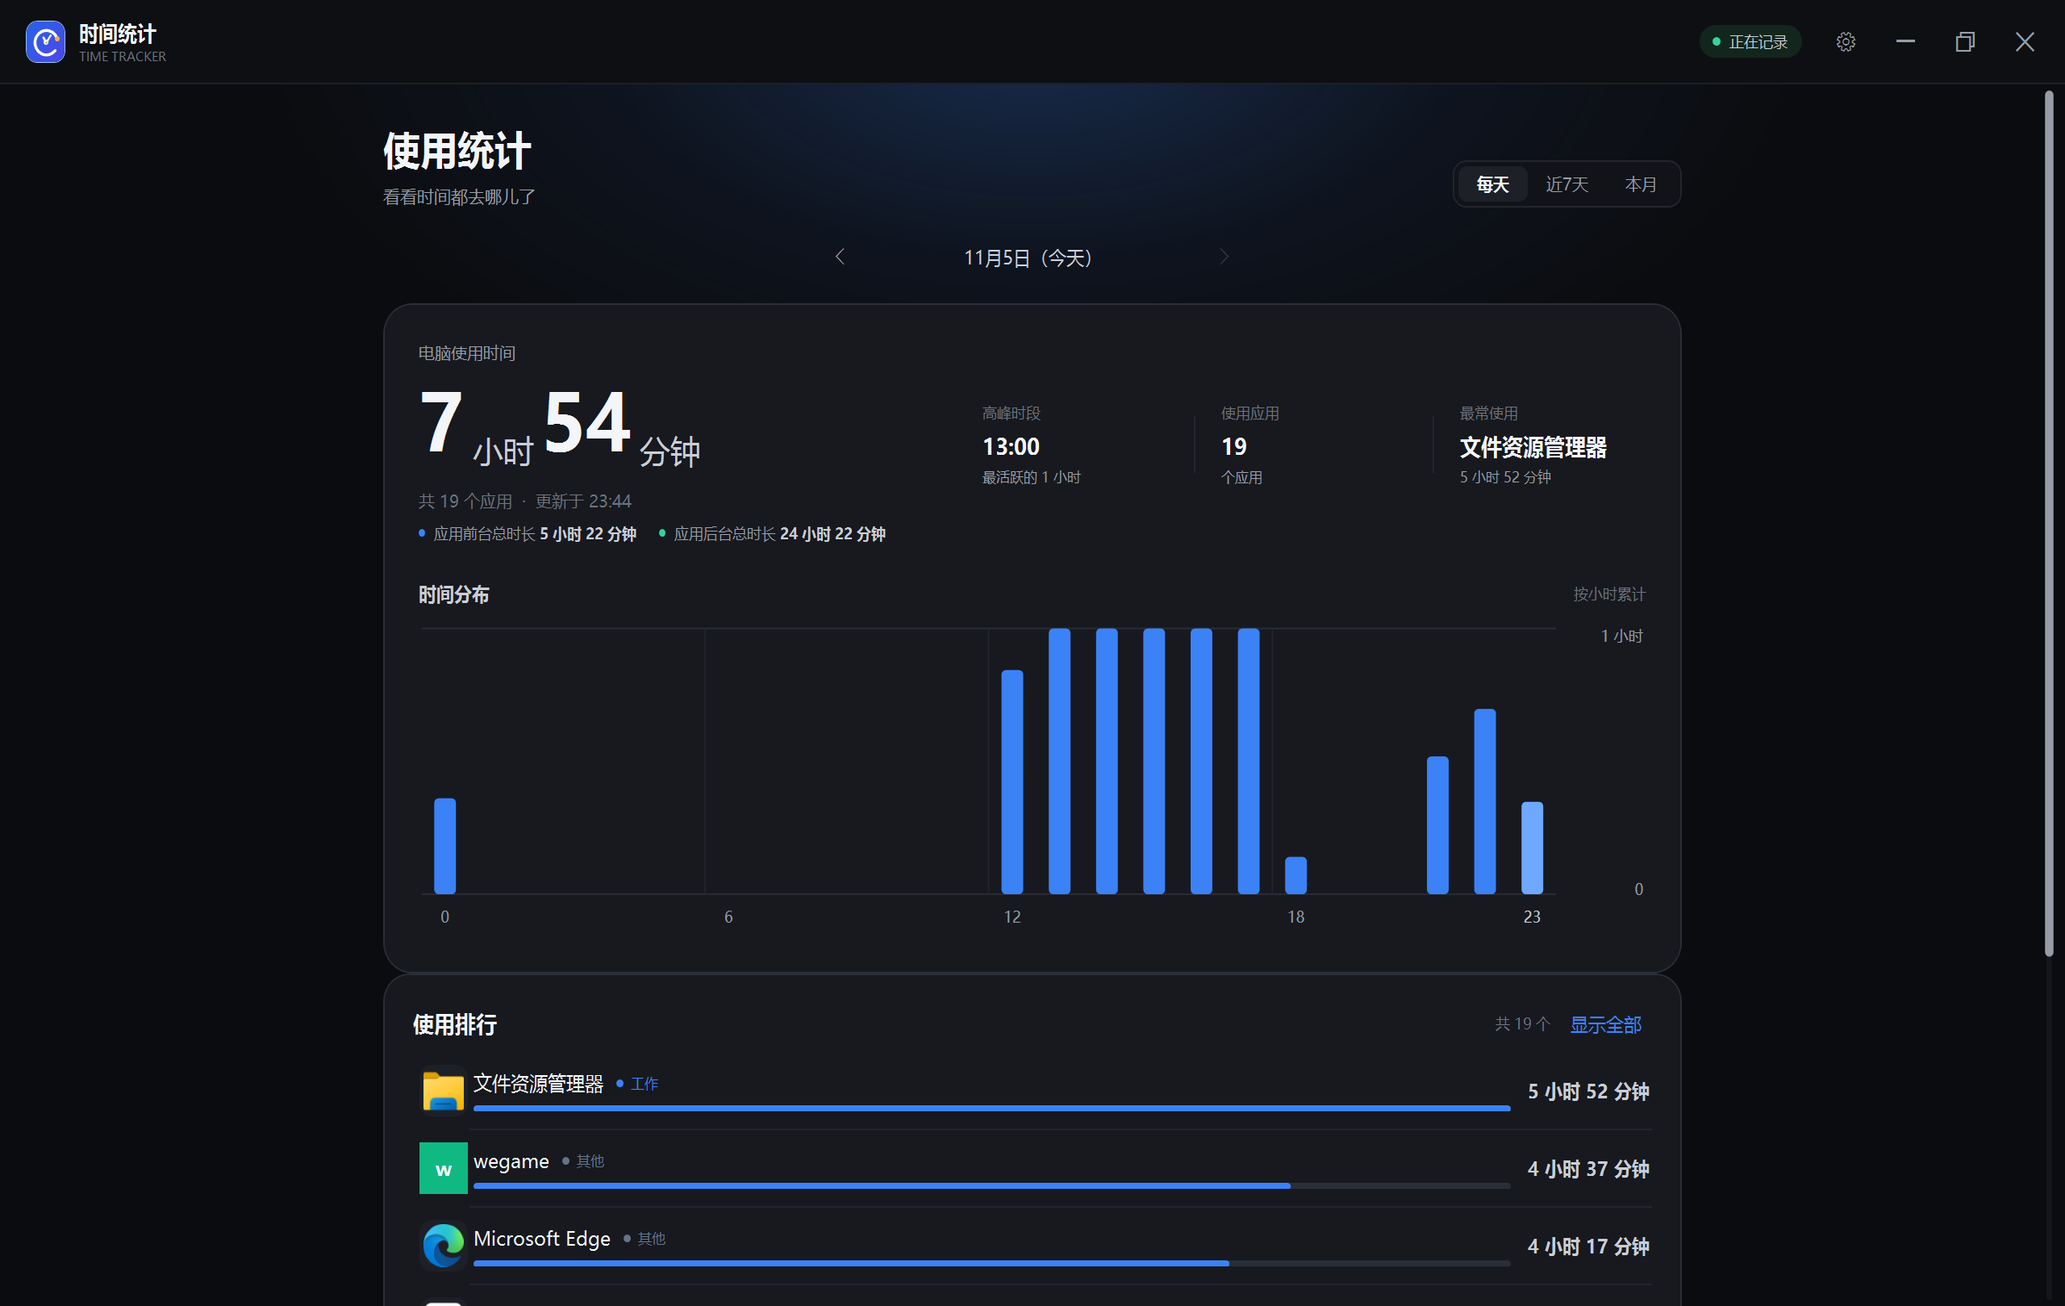
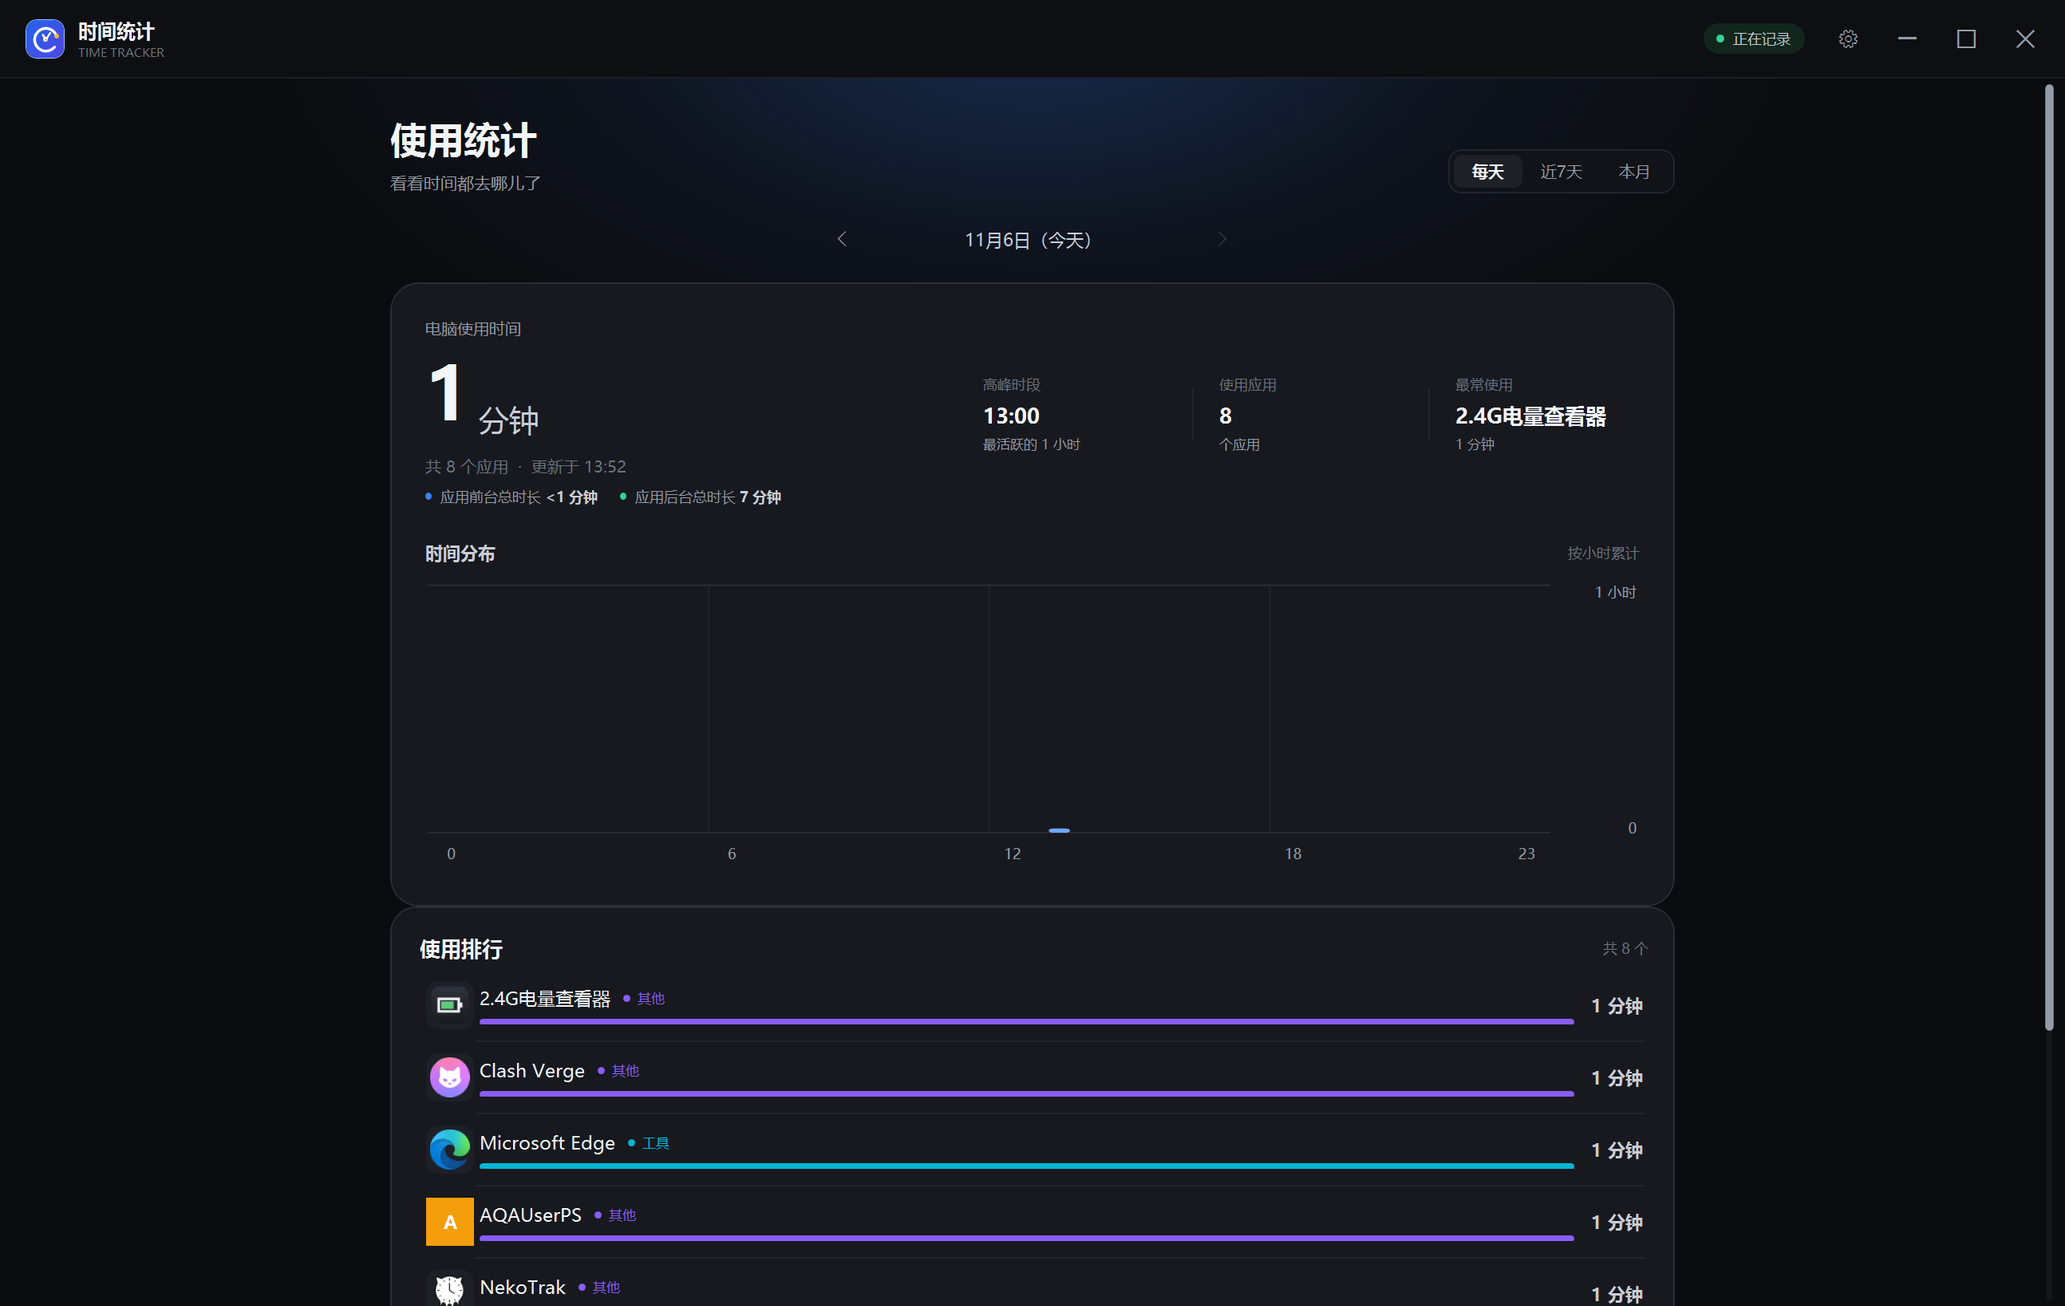
Color ranking bars by category and fix settings load

diff --git a/src/DataStore.cs b/src/DataStore.cs
@@ -381,6 +381,7 @@ namespace TimeTrack
             _settings.CategoryColors = categoryColors;
 
             if (_settings.RetentionDays < 7) _settings.RetentionDays = 90;
+            if (_settings.LastCleanupUnixSeconds < 0) _settings.LastCleanupUnixSeconds = 0;
             if (_settings.CleanupIntervalDays < 1) _settings.CleanupIntervalDays = 30;
 
             _excluded.Clear();
@@ -1006,8 +1007,8 @@ namespace TimeTrack
             {
                 if (_disposed || !_settings.AutoCleanup) return 0;
                 DateTime now = DateTime.UtcNow;
-                if (!force && _settings.LastCleanupUtc != DateTime.MinValue &&
-                    (now - _settings.LastCleanupUtc).TotalDays < _settings.CleanupIntervalDays)
+                if (!force && _settings.LastCleanupUnixSeconds > 0 &&
+                    (now - new DateTime(1970, 1, 1, 0, 0, 0, DateTimeKind.Utc).AddSeconds(_settings.LastCleanupUnixSeconds)).TotalDays < _settings.CleanupIntervalDays)
                     return 0;
 
                 int removed = 0;
@@ -1034,7 +1035,7 @@ namespace TimeTrack
                             }
                         }
                     }
-                    _settings.LastCleanupUtc = now;
+                    _settings.LastCleanupUnixSeconds = (long)(now - new DateTime(1970, 1, 1, 0, 0, 0, DateTimeKind.Utc)).TotalSeconds;
                     SaveSettingsLocked();
                     Interlocked.Increment(ref _version);
                     Logger.Write("Auto cleanup removed " + removed + " day file(s), retention " + _settings.RetentionDays + " days.");

diff --git a/src/Models.cs b/src/Models.cs
@@ -105,7 +105,7 @@ namespace TimeTrack
         public bool AutoCleanup { get; set; }
         public int RetentionDays { get; set; }
         public int CleanupIntervalDays { get; set; }
-        public DateTime LastCleanupUtc { get; set; }
+        public long LastCleanupUnixSeconds { get; set; }
 
         public Settings()
         {
@@ -124,7 +124,7 @@ namespace TimeTrack
             AutoCleanup = false;
             RetentionDays = 90;
             CleanupIntervalDays = 30;
-            LastCleanupUtc = DateTime.MinValue;
+            LastCleanupUnixSeconds = 0;
         }
     }
 
@@ -158,8 +158,8 @@ namespace TimeTrack
             if (string.Equals(category, "娱乐", StringComparison.Ordinal)) return "#F59E0B";
             if (string.Equals(category, "社交", StringComparison.Ordinal)) return "#EC4899";
             if (string.Equals(category, "工具", StringComparison.Ordinal)) return "#06B6D4";
-            if (string.Equals(category, "其他", StringComparison.Ordinal)) return "#64748B";
-            return "#64748B";
+            if (string.Equals(category, "其他", StringComparison.Ordinal)) return "#8B5CF6";
+            return "#8B5CF6";
         }
 
         public static string NormalizeColor(string value)

diff --git a/src/Controls.cs b/src/Controls.cs
@@ -89,15 +89,27 @@ namespace TimeTrack
     public class UsageBar : FrameworkElement
     {
         private double _ratio;
+        private Brush _fill;
         private readonly EventHandler _themeHandler;
 
         public UsageBar()
         {
             Height = 4;
             Margin = new Thickness(0, 6, 0, 0);
+            _fill = Ui.Accent;
             _themeHandler = delegate { InvalidateVisual(); };
             Ui.ThemeChanged += _themeHandler;
             Unloaded += delegate { Ui.ThemeChanged -= _themeHandler; };
+        }
+
+        public Brush Fill
+        {
+            get { return _fill; }
+            set
+            {
+                _fill = value ?? Ui.Accent;
+                InvalidateVisual();
+            }
         }
 
         public double Ratio
@@ -119,7 +131,7 @@ namespace TimeTrack
             dc.DrawRoundedRectangle(Ui.Track, null, new Rect(0, 0, w, h), h / 2, h / 2);
             if (_ratio <= 0) return;
             double fill = Math.Max(3, w * _ratio);
-            dc.DrawRoundedRectangle(Ui.Accent, null, new Rect(0, 0, fill, h), h / 2, h / 2);
+            dc.DrawRoundedRectangle(_fill ?? Ui.Accent, null, new Rect(0, 0, fill, h), h / 2, h / 2);
         }
     }
 

diff --git a/src/MainWindow.cs b/src/MainWindow.cs
@@ -1096,6 +1096,7 @@ namespace TimeTrack
                     nameRow.Children.Add(CategoryTag(category, app.Seconds));
                     mid.Children.Add(nameRow);
                     UsageBar bar = new UsageBar();
+                    bar.Fill = CategoryBrush(category);
                     bar.Ratio = data.Apps[0].Seconds > 0 ? (double)app.Seconds / data.Apps[0].Seconds : 0;
                     mid.Children.Add(bar);
                     Grid.SetColumn(mid, 1);

diff --git a/CHANGELOG.md b/CHANGELOG.md
@@ -6,7 +6,7 @@
 
 - 应用分类改为展开选择栏，不再需要反复点击循环。
 - 内置工作 / 学习 / 娱乐 / 社交 / 工具 / 其他六类，每类有独立颜色。
-- 支持新建自定义分类并选择颜色；排行榜、分类标签和分类周报同步显示色标。
+- 支持新建自定义分类并选择颜色；排行榜时间条、分类标签和分类周报同步显示对应颜色。
 - 应用行提示显示分类与使用时长；设置中的应用列表可直接打开所在文件夹。
 - 分类周报：近 7 天视图显示分类时长、占比及相对前 7 天的变化。
 - CSV 导出：导出全部每日应用记录（UTF-8 BOM，Excel 可直接打开）。
@@ -15,10 +15,12 @@
 - 退出日志与心跳：记录会话状态、60 秒心跳和异常退出线索，便于排查进程被结束的问题。
 - 深色 / 浅色切换加入颜色过渡动画；轻量模式下自动跳过。
 - 页脚显示 `Time Track v1.5.0  GitHub-Zh1Chuan9`。
+- 排行榜时间条按分类着色；「其他」分类默认颜色改为紫色。
 
 ### 修复
 
 - 统计页拆分标签在较窄窗口下会被裁切，改为自动换行。
+- 修复设置文件中的旧清理时间字段可能导致分类、自定义名称等偏好无法加载的问题。
 
 ## v1.4.1 — 2026-11-05
 
